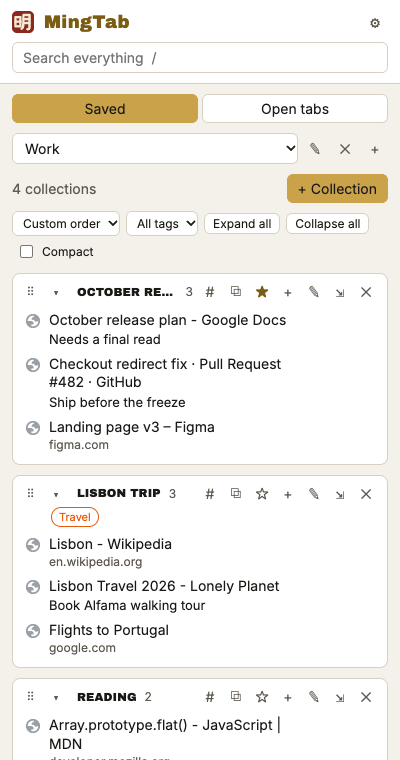
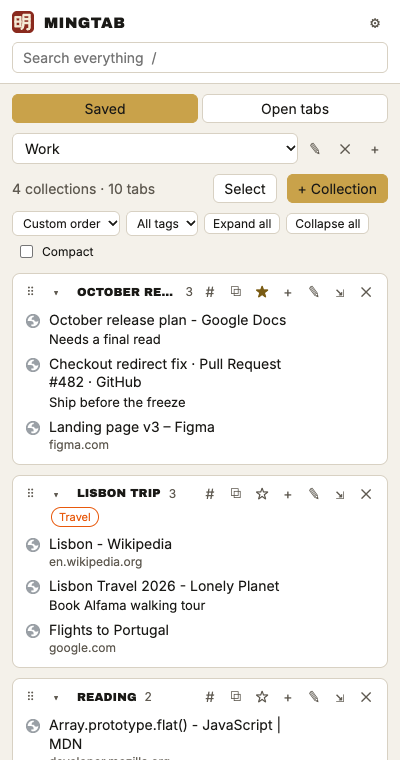
README: new header, features grouped, select mode and Stats
Centred logo, badges and quick links; the feature list grouped and brought up
to 0.11 (select mode, Stats, Save all); new select-mode and Stats screenshots
from demo data; fixes the line saying collections never leave the machine
(they do when you sign in to sync); a Windows unzip note; roadmap updated.

Changed region(s): [[0.09, 0.0, 0.33, 0.0605], [0.54, 0.2421, 0.66, 0.2724], [0.27, 0.2421, 0.39, 0.2724]]

diff --git a/README.md b/README.md
@@ -1,43 +1,90 @@
-# MingTab
+<p align="center">
+  <img src="docs/images/logo-ming-doorway.svg" alt="明 in a bright doorway, the MingTab logo" width="112">
+</p>
 
-**A tab manager for Chrome that keeps your tab bar clear.** Save whole windows as collections,
-organize them into spaces, and bring them back when you need them. MingTab is a personal
-replacement for [Toby](https://www.gettoby.com/) that keeps everything on your own machine.
+<h1 align="center">MingTab</h1>
+
+<p align="center">
+  <b>Keep your tab bar clear.</b><br>
+  Save your open tabs as collections, sort them into spaces, and bring them back when you need them.
+</p>
+
+<p align="center">
+  <a href="https://github.com/kratner/mingtab/releases/latest"><img alt="Latest release" src="https://img.shields.io/github/v/release/kratner/mingtab?label=release&color=C9A24A"></a>
+  <img alt="Chrome, Edge, Brave" src="https://img.shields.io/badge/Chrome%20%C2%B7%20Edge%20%C2%B7%20Brave-Manifest%20V3-0E0D0B">
+  <a href="https://fourounces.live/"><img alt="A Four Ounces tool" src="https://img.shields.io/badge/a%20Four%20Ounces%20tool-8A2A1E"></a>
+</p>
+
+<p align="center">
+  <a href="#install"><b>Install</b></a> ·
+  <a href="#using-mingtab">How to use it</a> ·
+  <a href="#your-data">Your data</a> ·
+  <a href="CHANGELOG.md">What's new</a> ·
+  <a href="#development">Development</a>
+</p>
 
 ![The MingTab board: spaces on the left, collections in the middle, open tabs on the right](docs/images/board-dark.png)
 
-<img src="docs/images/logo-ming-doorway.svg" alt="明 in a bright doorway, the MingTab logo" width="96" align="right">
-
-**Why "MingTab"?** 明堂 *míngtáng*, "the bright hall", is the open, uncluttered space in front of
-a building in feng shui: the place where qi, the energy of a place, gathers before it flows
-inside. Clutter there blocks it; a clear approach lets it in. 明 *míng*, "bright", joins 日 (sun)
-and 月 (moon). Forty open tabs are a cluttered approach; MingTab keeps yours clear. The same note
-is in the extension under **Settings → About MingTab**.
+MingTab is a tab manager for Chrome and other Chromium browsers, built as a personal replacement
+for [Toby](https://www.gettoby.com/). Your collections live on your own computer. Sync between
+computers is optional.
 
 ## What it does
 
+**Save and restore**
+
 - **Save tabs without losing them.** Save a window, a tab group or a single tab as a collection.
-  Saving closes the tabs by default (you can keep them open instead).
-- **Organize.** Spaces hold collections, and collections hold cards. Drag to reorder, move cards
-  between collections, or drop a collection onto another space. Tag, star, sort and merge
-  collections.
-- **Bring them back.** Open one card, or a whole collection at once. A collection saved from a
-  tab group reopens as a tab group with the same name and color.
-- **Find anything.** One search across everything you've saved, your open tabs and (if you turn
-  it on) your browsing history.
+  Saving closes the tabs by default; you can keep them open instead.
+- **Save everything at once.** **Save all** keeps every window in one collection, and **Open all**
+  puts each window back where it was, tab groups included.
+- **Bring them back.** Open one card or a whole collection. A collection saved from a tab group
+  reopens as a tab group with the same name and color.
+
+**Organise**
+
+- **Spaces, collections and cards.** Drag to reorder, move cards between collections, or drop a
+  collection onto another space. Tag, star, sort and merge collections.
+- **Select mode.** Tick cards anywhere (across collections, spaces and search results), then
+  make a new collection from them, move or copy them, open them, or delete them. Every action can
+  be undone.
+- **Stats.** How many collections and saved tabs you have, the biggest collections, your
+  most-saved sites, empty collections and duplicates.
 - **Tidy up.** Find pages saved more than once and remove the extra copies.
+
+**Find and use**
+
+- **One search for everything:** what you've saved, your open tabs and (if you turn it on) your
+  browsing history. Press **/** from anywhere.
+- **Next, notes and shortcuts.** A to-read queue, notes with checklists, and address-bar
+  shortcuts: type `to/ docs` to open the card you named `docs`.
 - **Manage open tabs.** See every window and tab group, rename and recolor groups, and merge all
   windows into one.
+
+**And**
+
 - **Import from Toby**, including which space each collection was in.
-- **Next, notes and shortcuts.** A to-read queue, notes with checklists, and `to docs`-style
-  shortcuts in the address bar (`to/ docs`).
 - **Sync** across Chrome profiles and computers, through a small sync service on your own
   Cloudflare account, signed in with Google.
+- **Tells you when a new version is out**: it checks for releases once a day.
 - **Light and dark themes**, in the Four Ounces gold scheme or a terracotta one.
+
+| Select mode | Stats |
+|---|---|
+| ![Three cards ticked across two collections, with the select bar along the bottom](docs/images/select.png) | ![The Stats view: totals, biggest collections and most-saved sites](docs/images/stats.png) |
 
 | Board in light mode | Side panel | Search |
 |---|---|---|
 | ![Board, light theme](docs/images/board-light.png) | ![Side panel](docs/images/sidepanel.png) | ![Search results for "lisbon"](docs/images/search.png) |
+
+### Why "MingTab"?
+
+<img src="docs/images/logo-ming-doorway.svg" alt="" width="72" align="right">
+
+明堂 *míngtáng*, "the bright hall", is the open, uncluttered space in front of a building in
+feng shui: the place where qi, the energy of a place, gathers before it flows inside. Clutter
+there blocks it; a clear approach lets it in. 明 *míng*, "bright", joins 日 (sun) and 月 (moon).
+Forty open tabs are a cluttered approach; MingTab keeps yours clear. The same note is in the
+extension under **Settings → About MingTab**.
 
 ---
 
@@ -52,6 +99,9 @@ About two minutes. What changed in each release: [CHANGELOG.md](CHANGELOG.md).
 Download the latest **`mingtab-<version>.zip`** from
 [Releases](https://github.com/kratner/mingtab/releases). Unzip it into a folder you'll keep, for example
 `~/Applications/MingTab` on a Mac or `C:\Users\<you>\MingTab` on Windows.
+
+> **Windows:** "Extract All" suggests a new folder named after the zip. That's fine the first
+> time. When you update, extract into the folder Chrome already loads, not a new one beside it.
 
 Every copy of MingTab has the same extension ID (`jclkedgbnlmbonoihhobgnmdoehmddpo`, fixed by the
 manifest's `key`), so the folder name and location don't matter.
@@ -91,7 +141,8 @@ the Worker in `worker/` to your Cloudflare account and point `sync.config.json` 
 MingTab checks this repository's Releases about once a day. When a newer version is out, the toolbar
 button shows **↑** and the board and side panel show a notice:
 
-1. Click **Download** and unzip the zip **over the same folder** (replace everything).
+1. Click **Download** and unzip the zip **over the same folder** (replace everything). Not sure
+   which folder? `chrome://extensions` shows it on MingTab's card, under **Developer mode**.
 2. Within a minute MingTab notices the new files and the notice changes to **Restart MingTab**. Click
    it. Open MingTab pages close and the new version starts. Your data stays.
 
@@ -136,6 +187,9 @@ Then click **Remove** on MingTab in `chrome://extensions`.
 | Search | Type in the search box, or press **/** from anywhere. **Esc** clears. |
 | Reorder | Drag a collection by **⠿**, or drag a card. Keyboard: focus it, **Space**, arrow keys, **Space**. |
 | Move a collection to another space | Drag its **⠿** onto the space in the sidebar |
+| Pick cards from anywhere | **Select** in a space's header (or above search results), tick cards, then use the bar along the bottom. Shift-click ticks a range; a collection's header box ticks all of it. **Esc** or **Done** to finish. |
+| Make a collection from picked cards | Select mode → **New collection…** (move or copy them in) |
+| See totals | The tab count is beside each space's name; **Stats** under the spaces list has the rest |
 | Tag a collection | **#** in its header |
 | Merge two collections | **⇲** in the header of the one to merge away |
 | See starred collections | **★ Starred** at the top of the spaces list |
@@ -154,10 +208,10 @@ Pinned tabs are never saved with a window or closed.
 ## Your data
 
 Everything is stored **locally, inside the extension, in the Chrome profile you loaded it into**
-(IndexedDB, plus a few display preferences in local storage). MingTab has no server and your
-collections never leave the machine. The only network requests are site icons: Chrome's own
-icon cache comes first, and if it doesn't have one, the icon saved with the card loads from that
-site.
+(IndexedDB, plus a few display preferences in local storage). Your collections leave the machine
+only if you sign in to sync. Otherwise the only network requests are the daily update check and
+site icons: Chrome's own icon cache comes first, and if it doesn't have one, the icon saved with
+the card loads from that site.
 
 | Your data survives | Your data does **not** survive |
 |---|---|
@@ -221,7 +275,7 @@ Add a `## <version> — <date>` section to `CHANGELOG.md`, bump `version` in `pa
 then tag and push:
 
 ```sh
-git tag v0.7.0 && git push origin v0.7.0
+git tag v1.2.3 && git push origin v1.2.3   # the version in package.json
 ```
 
 The **Release** workflow (`.github/workflows/release.yml`) checks the tag matches
@@ -258,14 +312,20 @@ src/
   app/        UI: board, side panel, collections, cards, settings
   db/         records, database, ordering (fractional positions), create/edit/delete
   dnd/        drag-and-drop rules (what can drop where) and the drag context
+  select/     select mode: the selection, the action bar, and undoable bulk actions
+  stats/      totals and the Stats view
   import/     Toby import, MingTab backup/restore
   search/     search index and results
   dedupe/     duplicate detection
+  notes/      notes and checklists
   tabs/       Chrome tabs, windows and tab groups; the open-tabs pane
-  background.ts, sidepanel/, newtab/
+  sync/       sign-in and sync with the Worker
+  update/     the daily release check and the update notice
+  background.ts, omnibox.ts, sidepanel/, newtab/
+worker/       the sync service (Cloudflare Worker + D1)
 e2e/          Playwright tests and fixtures
 scripts/      toby-space-map.js, README screenshots, original icon script
-branding/     icon concepts, render script, UI screenshots
+branding/     icon concepts, render script, prototypes, UI screenshots
 ```
 
 Every record carries a UUID, `updatedAt`, a `deletedAt` tombstone and a fractional position, so
@@ -290,4 +350,13 @@ and this README). Earlier versions, KR and gold-on-ink, are in `branding/retired
 - ✅ M0 scaffold · M1 spaces, collections, Toby import · M2 saving windows and tab groups ·
   M3 drag and drop · M4 search, tags, duplicates · M5 Next, notes, `to/` shortcuts, popup
 - ✅ S1 sync across Chrome profiles and computers ([SYNC.md](SYNC.md))
+- ✅ Organise: tab counts, Stats, select mode
+- ⏳ Organise: more sorting and grouping (most tabs, recently opened, by year saved, by site)
+- ⏳ Chrome bookmarks in the sidebar and in search
 - ⏳ S2 phone web app
+
+---
+
+<p align="center">
+  <a href="https://fourounces.live/">A Four Ounces tool</a> · by Keith Ratner
+</p>
